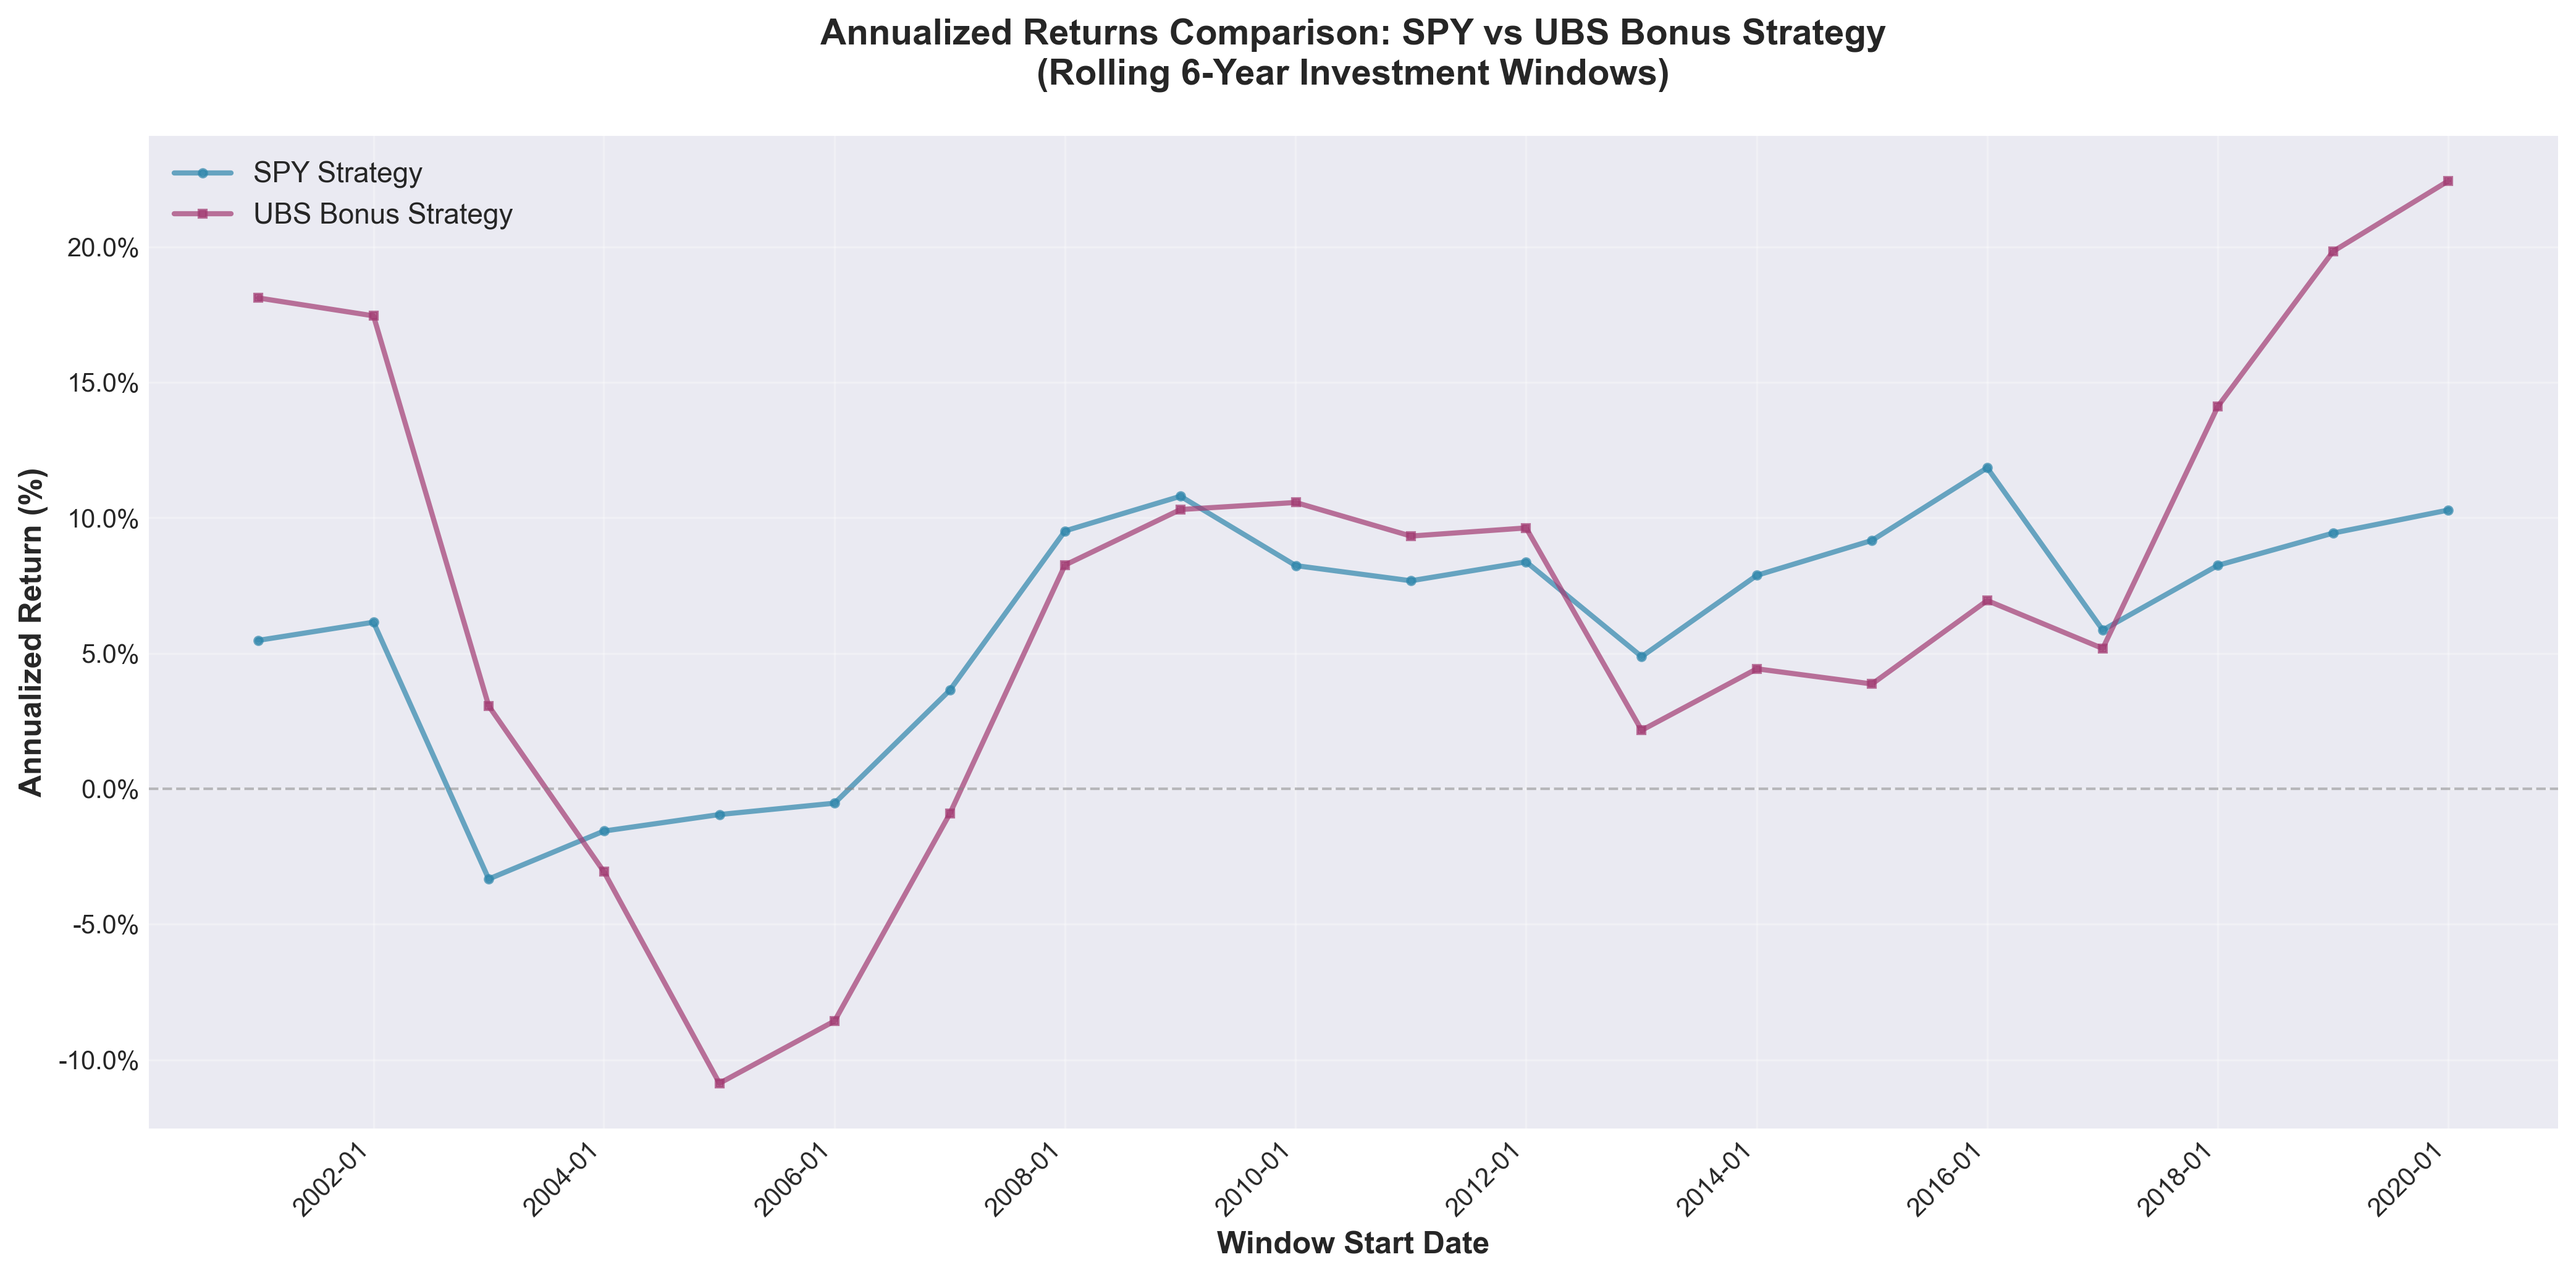
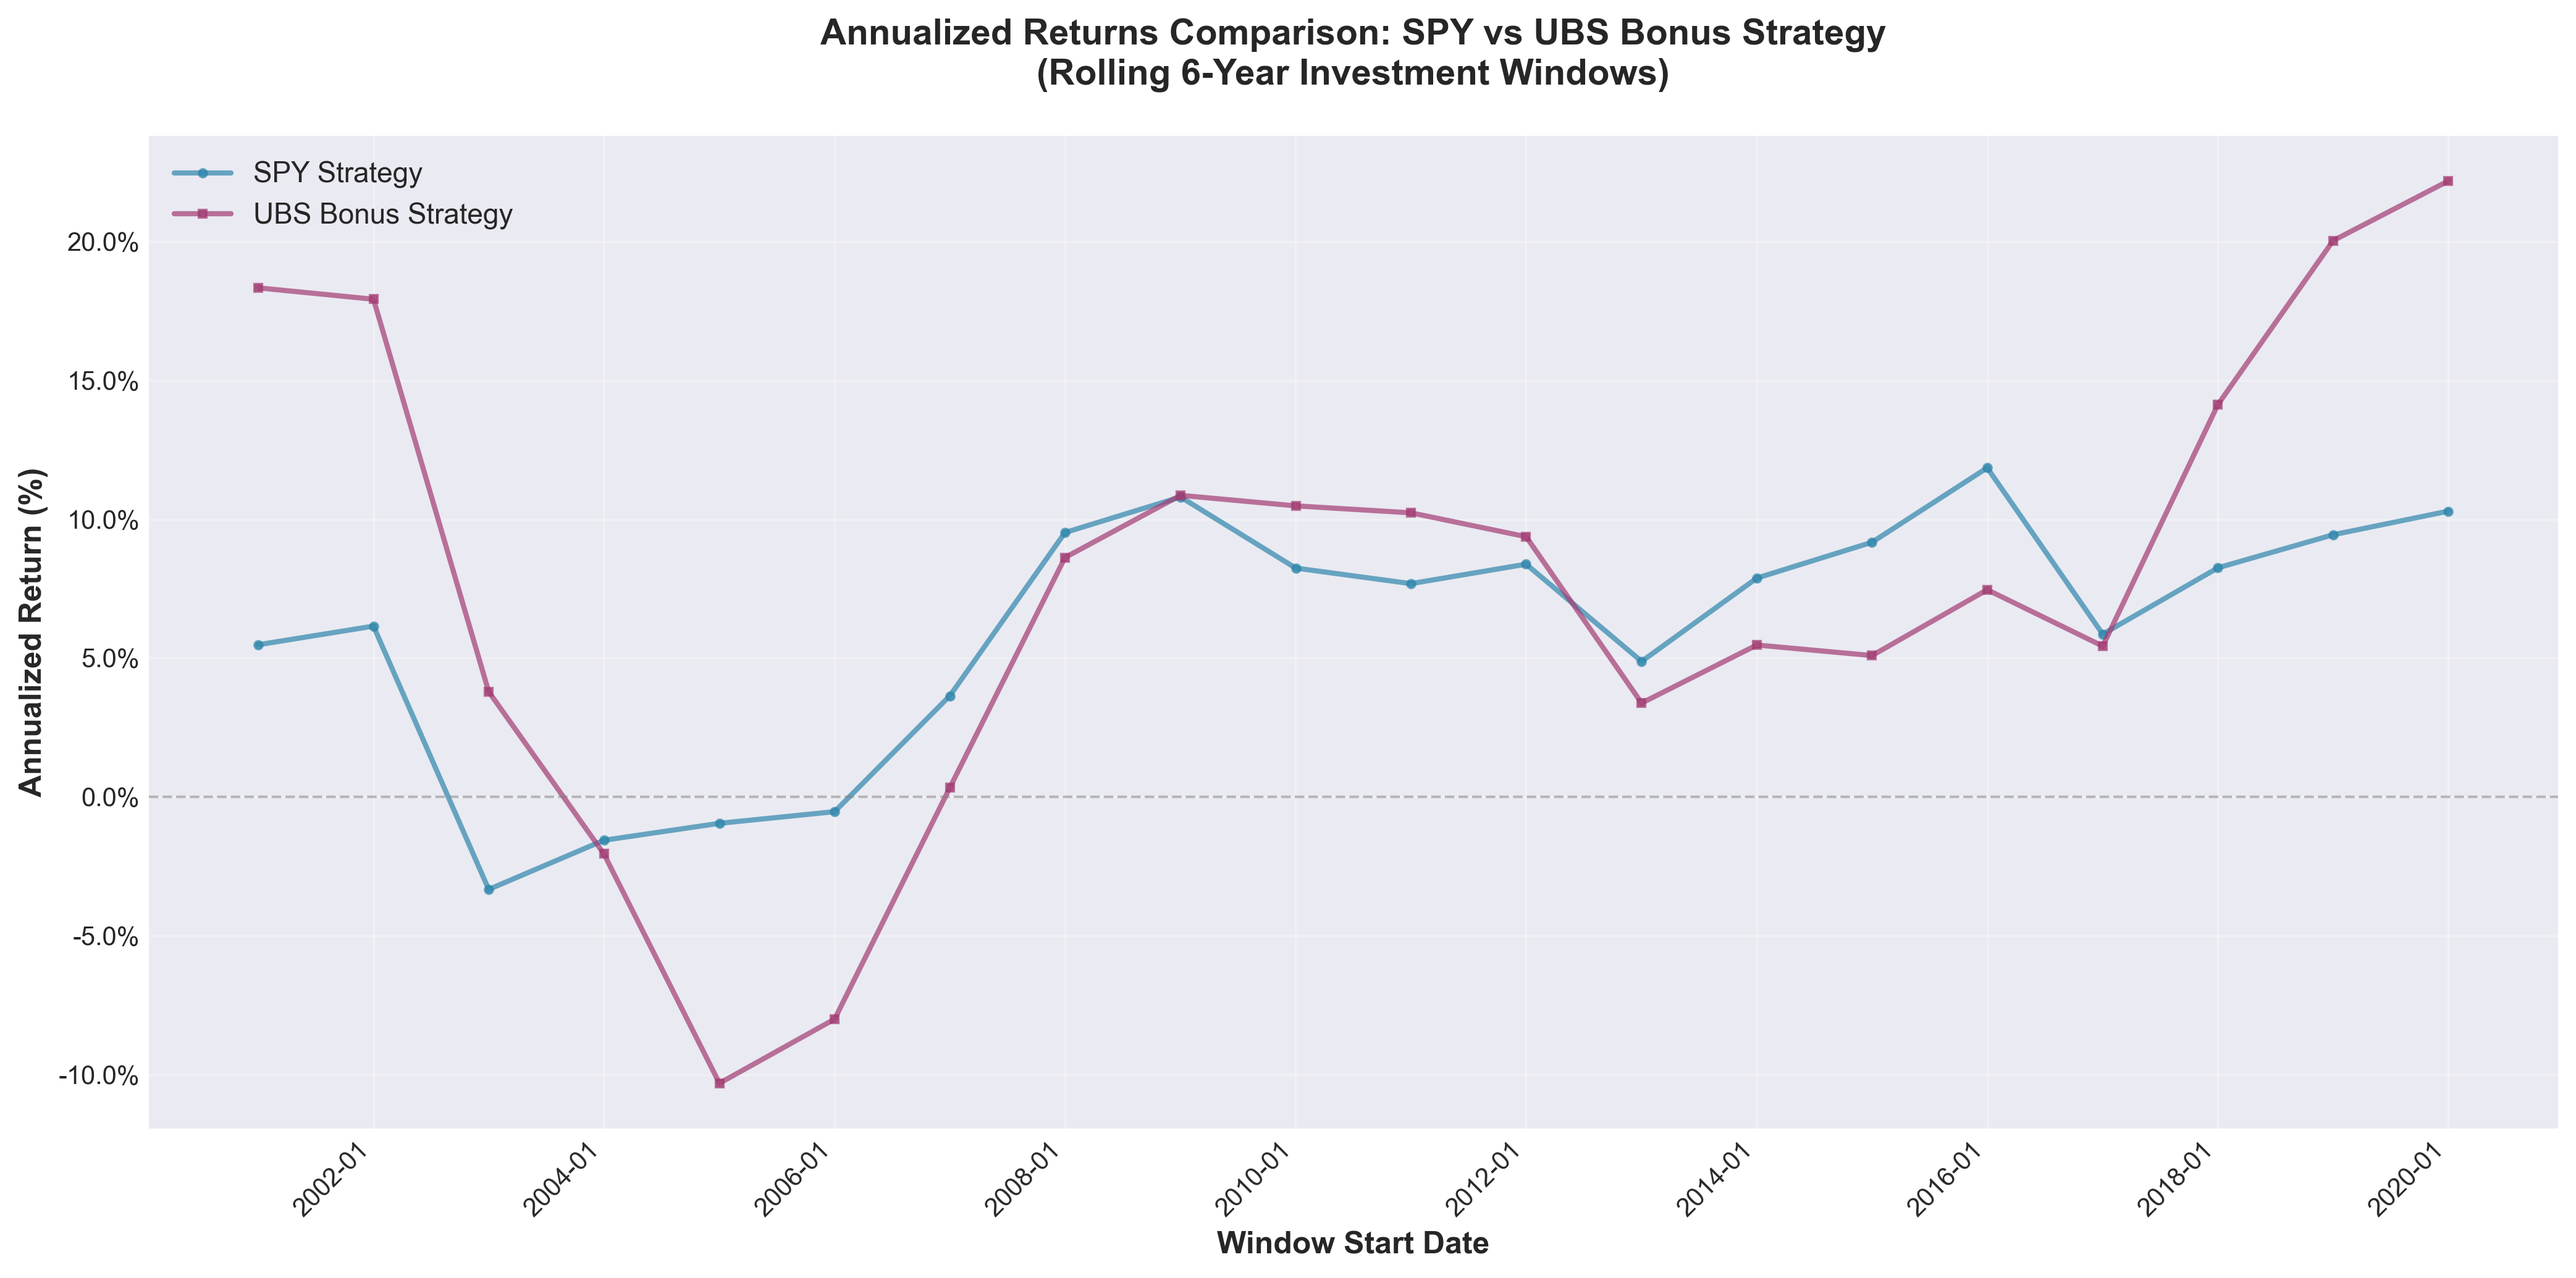
fixed vesting date to march 1st of third year from purchase

diff --git a/simulate_ubs_spy_fixed_annualized_returns.py b/simulate_ubs_spy_fixed_annualized_returns.py
@@ -10,7 +10,7 @@ UBS_AVG_YEARLY_RETURN = 0  # Average yearly return in percentage
 MONTHLY_INVESTMENT = 1000
 WINDOW_MONTHS = 120  # 10 years
 START_DATE = datetime(2000, 1, 1, tzinfo=timezone.utc)  # Start date for simulation
-INVESTMENT_MONTHS = 36  # First 3 years
+INVESTMENT_MONTHS = 60  # First 5 years
 BONUS_FRACTION = 1/3  # 1/3 bonus shares
 
 # -------------------------
@@ -84,10 +84,10 @@ ubs_portfolio_values = []
 ubs_shares_values = []  # Track UBS shares value separately
 ubs_spy_values = []  # Track SPY value separately
 
-# Track each purchase as a unit: (purchase_month, total_shares)
-# Each purchase includes both regular and bonus shares
-# These will be sold exactly 3 years (36 months) after purchase
-ubs_purchases = []  # List of {'purchase_month': int, 'shares': float}
+# Track purchases by calendar year
+# All shares bought in a calendar year mature on March 1st, 3 years later
+# Dictionary: {purchase_year: total_shares}
+ubs_purchases_by_year = {}  # Dict[int, float] - year -> total shares
 
 spy_value_from_sales = 0.0  # Value from selling matured purchases and investing in SPY
 
@@ -97,11 +97,14 @@ for i in range(1, len(series)):
     prev_ubs_close = series[i - 1][2]
     curr_ubs_close = series[i][2]
     
+    # Get current date
+    current_date = dates[i]
+    
     # Update SPY value (from selling matured purchases)
     spy_return = curr_spy_close / prev_spy_close
     spy_value_from_sales *= spy_return
     
-    # First 3 years: invest in UBS and track purchases
+    # First 3 years: invest in UBS and track purchases by year
     if i <= INVESTMENT_MONTHS:
         # Calculate shares purchased this month
         # Regular shares: MONTHLY_INVESTMENT / curr_ubs_close
@@ -110,36 +113,32 @@ for i in range(1, len(series)):
         bonus_shares = regular_shares * BONUS_FRACTION
         total_shares = regular_shares + bonus_shares
         
-        # Track this purchase (all shares together)
-        ubs_purchases.append({
-            'purchase_month': i,
-            'shares': total_shares
-        })
+        # Track this purchase by calendar year
+        purchase_year = current_date.year
+        if purchase_year not in ubs_purchases_by_year:
+            ubs_purchases_by_year[purchase_year] = 0.0
+        ubs_purchases_by_year[purchase_year] += total_shares
     
-    # Check for maturing purchases (purchased exactly 36 months ago)
-    # Purchases mature in months 37-72 (last 3 years)
-    if i > INVESTMENT_MONTHS:
-        maturing_month = i - INVESTMENT_MONTHS  # Month when these shares were purchased
+    # Check if current date is March 1st
+    # If so, check if any purchases from 3 years ago should mature
+    if current_date.month == 3 and current_date.day == 1:
+        maturity_year = current_date.year
+        purchase_year = maturity_year - 3  # Shares purchased 3 years ago
         
-        # Find and process all purchases that mature this month
-        for purchase in ubs_purchases:
-            if purchase['purchase_month'] == maturing_month:
-                # Calculate current value of these shares
-                # Shares have grown with UBS price since purchase
-                shares = purchase['shares']
-                current_value = shares * curr_ubs_close
-                
-                # Sell ALL shares from this purchase and invest proceeds in SPY
-                spy_value_from_sales += current_value
-                
-                # Mark as sold (we'll remove from list)
-                purchase['sold'] = True
-        
-        # Remove sold purchases from tracking
-        ubs_purchases = [p for p in ubs_purchases if not p.get('sold', False)]
+        # Sell all shares purchased in that year
+        if purchase_year in ubs_purchases_by_year:
+            shares_to_sell = ubs_purchases_by_year[purchase_year]
+            current_value = shares_to_sell * curr_ubs_close
+            
+            # Sell ALL shares from that year and invest proceeds in SPY
+            spy_value_from_sales += current_value
+            
+            # Remove from tracking
+            del ubs_purchases_by_year[purchase_year]
     
     # Track UBS shares value and SPY value separately
-    ubs_shares_value = sum(p['shares'] * curr_ubs_close for p in ubs_purchases)
+    # Calculate total UBS shares value (all shares not yet matured)
+    ubs_shares_value = sum(shares * curr_ubs_close for shares in ubs_purchases_by_year.values())
     portfolio_value = spy_value_from_sales + ubs_shares_value
     
     ubs_portfolio_values.append(portfolio_value)

diff --git a/simulate_ubs_spy_6y_sliding_win.py b/simulate_ubs_spy_6y_sliding_win.py
@@ -122,10 +122,10 @@ ubs_portfolio_results = []
 for start_idx in window_start_indices:
     window = series[start_idx : start_idx + WINDOW_MONTHS]
     
-    # Track each purchase as a unit: (purchase_month, total_shares)
-    # Each purchase includes both regular and bonus shares
-    # These will be sold exactly 3 years (36 months) after purchase
-    ubs_purchases = []  # List of {'purchase_month': int, 'shares': float}
+    # Track purchases by calendar year
+    # All shares bought in a calendar year mature on March 1st, 3 years later
+    # Dictionary: {purchase_year: total_shares}
+    ubs_purchases_by_year = {}  # Dict[int, float] - year -> total shares
     
     spy_value_from_sales = 0.0  # Value from selling matured purchases and investing in SPY
 
@@ -135,11 +135,15 @@ for start_idx in window_start_indices:
         prev_ubs_close = window[i - 1][2]
         curr_ubs_close = window[i][2]
         
+        # Get current date from timestamp
+        current_ts = window[i][0]
+        current_date = to_utc(current_ts)
+        
         # Update SPY value (from selling matured purchases)
         spy_return = curr_spy_close / prev_spy_close
         spy_value_from_sales *= spy_return
         
-        # First 3 years: invest in UBS and track purchases
+        # First 3 years: invest in UBS and track purchases by year
         if i <= INVESTMENT_MONTHS:
             # Calculate shares purchased this month
             # Regular shares: MONTHLY_INVESTMENT / curr_ubs_close
@@ -148,33 +152,28 @@ for start_idx in window_start_indices:
             bonus_shares = regular_shares * BONUS_FRACTION
             total_shares = regular_shares + bonus_shares
             
-            # Track this purchase (all shares together)
-            ubs_purchases.append({
-                'purchase_month': i,
-                'shares': total_shares
-            })
+            # Track this purchase by calendar year
+            purchase_year = current_date.year
+            if purchase_year not in ubs_purchases_by_year:
+                ubs_purchases_by_year[purchase_year] = 0.0
+            ubs_purchases_by_year[purchase_year] += total_shares
         
-        # Check for maturing purchases (purchased exactly 36 months ago)
-        # Purchases mature in months 37-72 (last 3 years)
-        if i > INVESTMENT_MONTHS:
-            maturing_month = i - INVESTMENT_MONTHS  # Month when these shares were purchased
+        # Check if current date is March 1st
+        # If so, check if any purchases from 3 years ago should mature
+        if current_date.month == 3 and current_date.day == 1:
+            maturity_year = current_date.year
+            purchase_year = maturity_year - 3  # Shares purchased 3 years ago
             
-            # Find and process all purchases that mature this month
-            for purchase in ubs_purchases:
-                if purchase['purchase_month'] == maturing_month:
-                    # Calculate current value of these shares
-                    # Shares have grown with UBS price since purchase
-                    shares = purchase['shares']
-                    current_value = shares * curr_ubs_close
-                    
-                    # Sell ALL shares from this purchase and invest proceeds in SPY
-                    spy_value_from_sales += current_value
-                    
-                    # Mark as sold (we'll remove from list)
-                    purchase['sold'] = True
-            
-            # Remove sold purchases from tracking
-            ubs_purchases = [p for p in ubs_purchases if not p.get('sold', False)]
+            # Sell all shares purchased in that year
+            if purchase_year in ubs_purchases_by_year:
+                shares_to_sell = ubs_purchases_by_year[purchase_year]
+                current_value = shares_to_sell * curr_ubs_close
+                
+                # Sell ALL shares from that year and invest proceeds in SPY
+                spy_value_from_sales += current_value
+                
+                # Remove from tracking
+                del ubs_purchases_by_year[purchase_year]
         
         # Note: We don't need to track UBS shares value separately anymore
         # because all shares are sold after 3 years. The only remaining value
